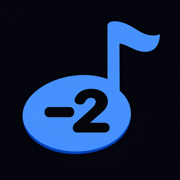
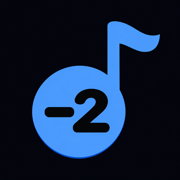
앱 아이콘 교체 (원형 음표)

Changed region(s): [[0.1111, 0.3611, 0.75, 0.8889]]

diff --git a/sw.js b/sw.js
@@ -1,7 +1,7 @@
 // 서비스 워커: 앱 파일을 폰에 캐시해서 인터넷 없이도 열리게 한다.
 // ponytail: 캐시 우선 + 뒤에서 새 파일 받기. 새 버전은 "그다음 실행"부터 보인다.
 // 파일 목록이 바뀌면 CACHE 숫자를 올린다.
-const CACHE = 'karaoke-v1';
+const CACHE = 'karaoke-v2';
 const FILES = [
   './', 'index.html', 'app.js', 'logic.js', 'style.css', 'manifest.webmanifest',
   'fonts/Freesentation-500.woff2', 'fonts/Freesentation-700.woff2', 'fonts/Freesentation-900.woff2',
